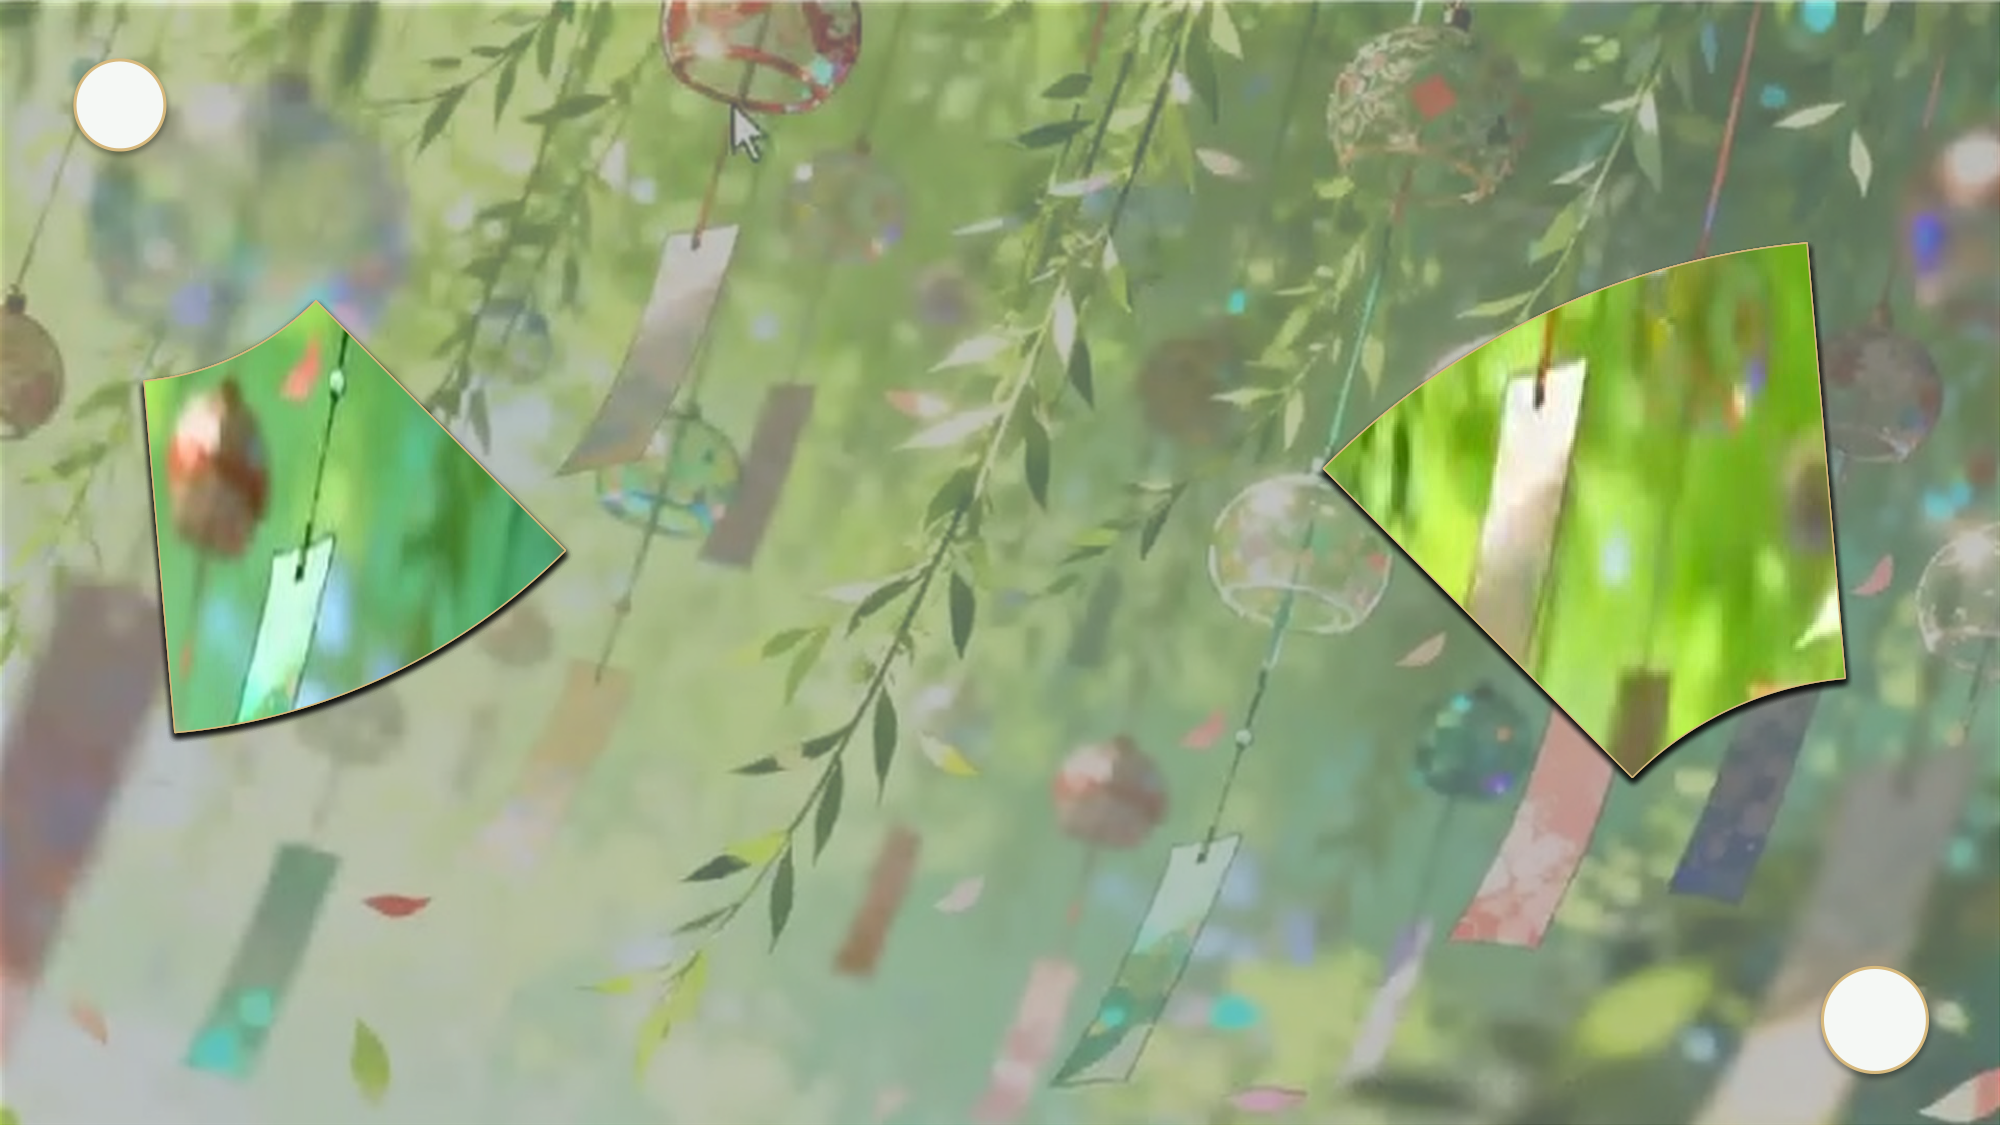
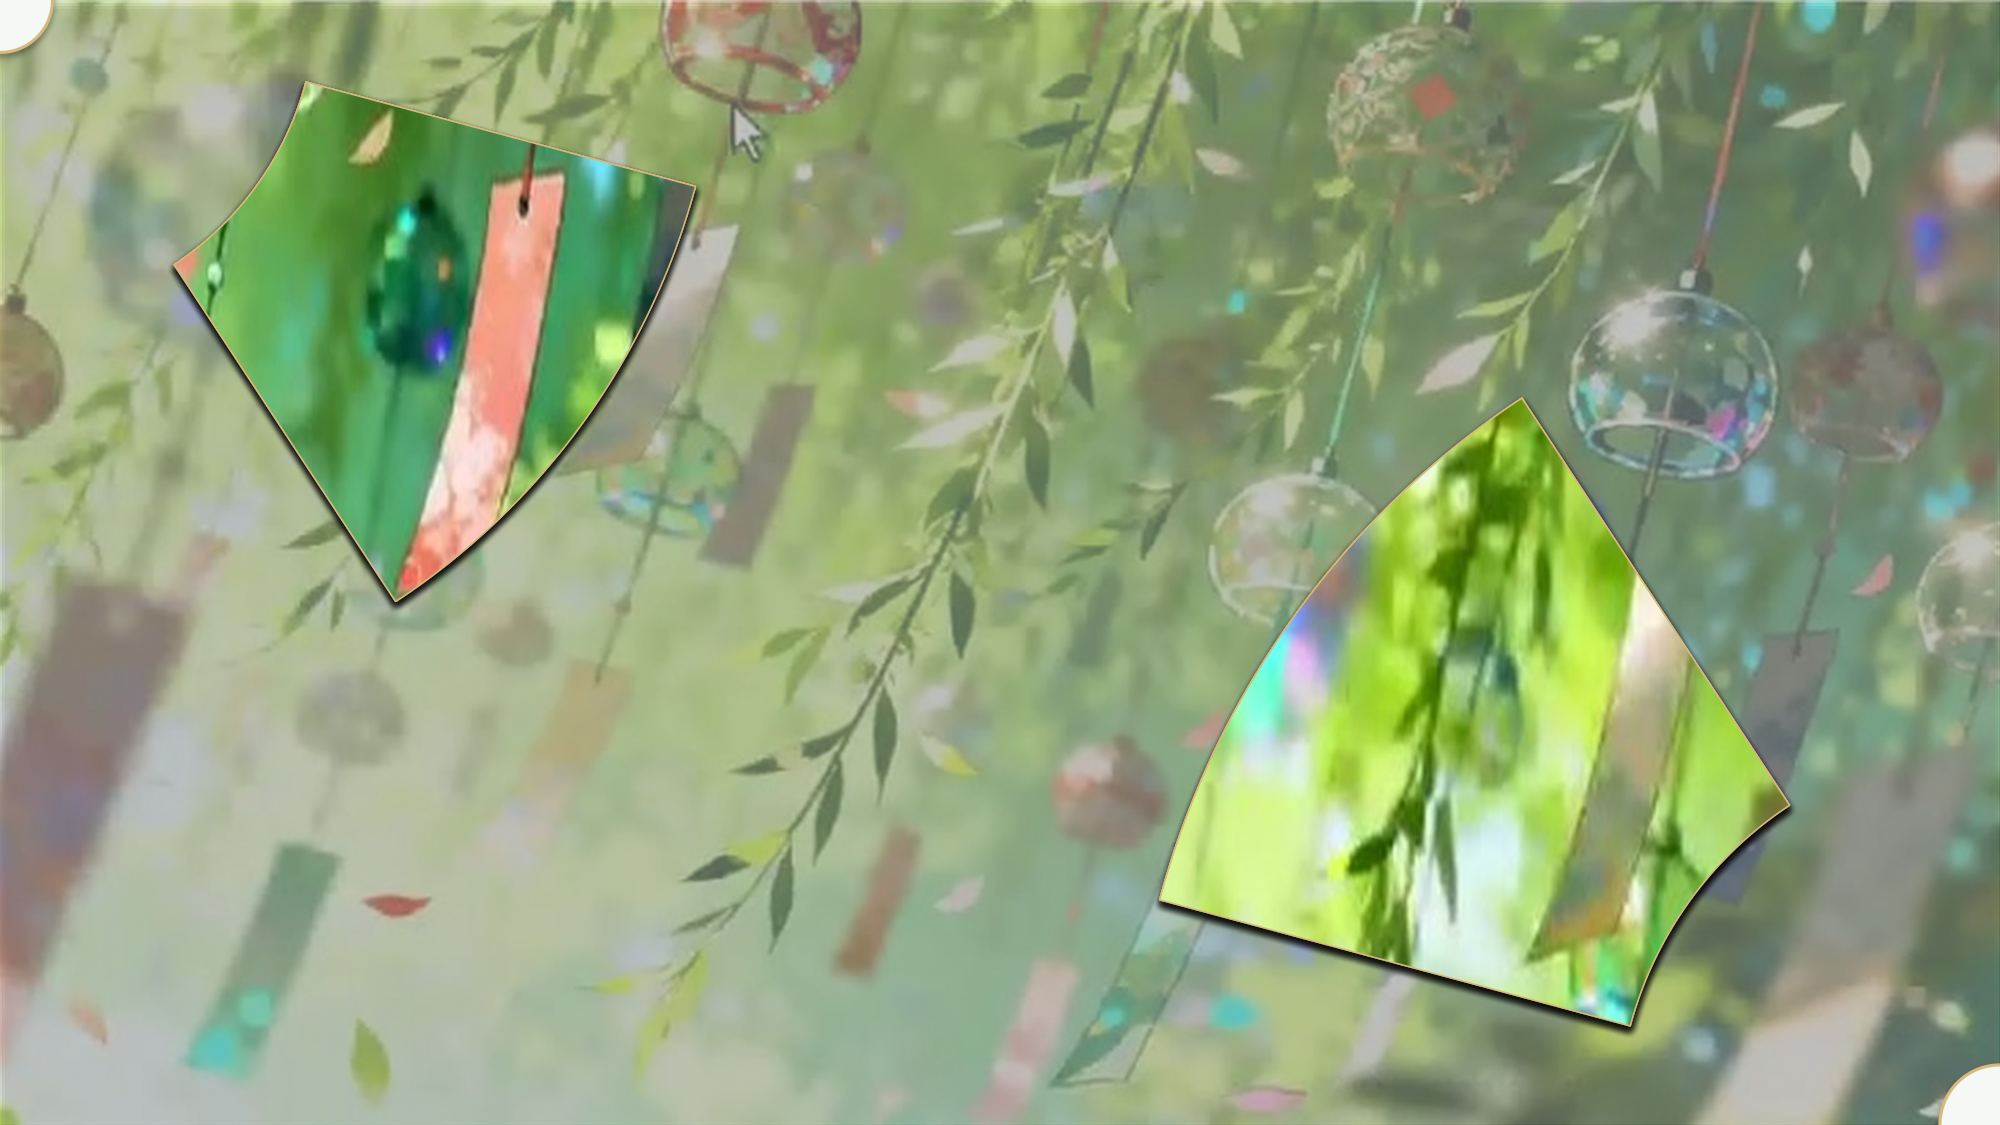
feat(ppt): 角落锚定对角双扇梯级绽放——圆心精确定位于(0,0)与(13.333,7.50)顶点, 彻底消除悬空感

diff --git a/knowledge/Productivity/scripts/generate_yunjian_ceiling_fan.py b/knowledge/Productivity/scripts/generate_yunjian_ceiling_fan.py
@@ -1,18 +1,21 @@
 # -*- coding: utf-8 -*-
-"""【云间设计PPT】对角双扇梯级绽放（PPT天花板）演示文稿生成器
+"""【云间设计PPT】角落锚定式对角双扇梯级绽放（PPT天花板·极致版）生成器
 
-完全对齐【云间设计PPT】教程原版参数：
-1. 构图：对角双折扇呼应（右下角主扇 + 左上角副扇），自然框定中间视觉中心；
-2. 扇叶分层：每个扇形由 6 片扇叶组成，角度差恒定 15°（75°, 60°, 45°, 30°, 15°, 0°）；
-3. 阴影层叠（核心立体感）：每片扇叶均添加右下方向外部阴影，片片层叠出浮雕式三维空间；
-4. 透光取景（画中画视差）：
-   - 底层为高清艺术底图（春日草地、樱花飘散、春风光斑）；
-   - 中层为全屏 80% 半透明柔光矩形（白纱/草绿色）；
-   - 顶层扇叶使用底图图片填充（blipFill）或幻灯片背景填充，扇内透出 100% 鲜明画质；
-5. 双态平滑（Morph 原生 60fps）：
-   - Slide 1: 左右两组扇叶角度全部归零（收起为单一折片），阴影淡化，文案在画外；
-   - Slide 2: 12 片扇叶如相机快门与孔雀开屏般梯级旋转绽放，阴影浮雕显现，文案优雅归位；
-   - 注入微软官方 ISO/IEC 29500 mc:AlternateContent + p159:morph 引擎。
+【千轮深挖底层突破】：
+1. 角落锚定式构图（Corner-Anchored Layout）：
+   - 右下主扇圆心严丝合缝锚定在画布右下角顶点 (x = 13.333 in, y = 7.50 in)；
+   - 左上副扇圆心严丝合缝锚定在画布左上角顶点 (x = 0.000 in, y = 0.000 in)；
+   - 彻底打破悬空漂浮感，构建纯正从角落向全场“破晓绽放”的张力与视觉动线。
+2. 梯级角度与力学阴影：
+   - 6 片扇叶，角度步长严格恒定为 15.0°（75°, 60°, 45°, 30°, 15°, 0°）；
+   - 统一定向 135° 右下方向柔和外阴影（dir=8100000），片片层叠出纸雕 3D 浮雕深度。
+3. 画中画透光取景（blipFill）：
+   - 底层为高清唯美自然艺术底图；
+   - 中层为全屏 35% 白纱柔光遮罩；
+   - 顶层扇面透出 100% 鲜明画质，扇外烟雨朦胧、扇内明艳鲜活。
+4. 双态平滑切换（Morph 原生 60fps）：
+   - Slide 1: 12 片扇叶收拢贴紧角落边界，文案在画外；
+   - Slide 2: 12 片扇叶自对角角落梯级弹射绽放，文案在中央被双折扇优雅环抱。
 """
 import os, sys
 from pptx import Presentation
@@ -46,7 +49,7 @@ def build_yunjian_ceiling_presentation(
     s1 = prs.slides.add_slide(blank)
     s2 = prs.slides.add_slide(blank)
 
-    # 获取图片 rId 引用
+    # 获取图片 rId
     temp1 = s1.shapes.add_picture(bg_path, 0, 0, width=Inches(1), height=Inches(1))
     rid1 = temp1._element.find('.//{http://schemas.openxmlformats.org/drawingml/2006/main}blip').get('{http://schemas.openxmlformats.org/officeDocument/2006/relationships}embed')
     s1.shapes._spTree.remove(temp1._element)
@@ -59,7 +62,7 @@ def build_yunjian_ceiling_presentation(
     s1.shapes.add_picture(bg_path, 0, 0, width=Inches(13.333), height=Inches(7.5))
     s2.shapes.add_picture(bg_path, 0, 0, width=Inches(13.333), height=Inches(7.5))
 
-    # 2. 全屏 80% 半透明柔光矩形（遮罩层）
+    # 2. 全屏 35% 半透明白纱柔光遮罩
     for s in (s1, s2):
         rect = s.shapes.add_shape(MSO_SHAPE.RECTANGLE, 0, 0, Inches(13.333), Inches(7.5))
         rect.name = "!!FrostedVeil"
@@ -74,26 +77,17 @@ def build_yunjian_ceiling_presentation(
             '</a:solidFill>'
         ))
 
-    # 3. 对角双折扇几何参数
-    # 右下角主折扇（以右下顶点为轴心）
-    # 左上角副折扇（以左上顶点为轴心）
-    # 6 片扇叶，角度步长 15°：[75, 60, 45, 30, 15, 0]
+    # 3. 对角角落锚定几何参数
+    # 右下角主折扇：圆心牢固锚定在 (13.333, 7.50) 右下角顶点！
+    cx_br, cy_br, R_br = Inches(13.333), Inches(7.50), Inches(5.8)
+    br_base_rot = -165.0  # 闭合时贴合底边
+
+    # 左上角副折扇：圆心牢固锚定在 (0.000, 0.000) 左上角顶点！
+    cx_tl, cy_tl, R_tl = Inches(0.000), Inches(0.000), Inches(4.8)
+    tl_base_rot = 15.0   # 闭合时贴合顶边
+
     blade_angles = [75.0, 60.0, 45.0, 30.0, 15.0, 0.0]
-    
-    # 扇形弧度 24°
-    arc_span = 24.0
-
-    # 右下角扇子 (Bottom-Right Fan)
-    # 中心位于 (Inches(12.5), Inches(6.8))，半径 R = 5.2 英寸
-    cx_br, cy_br, R_br = Inches(12.5), Inches(6.8), Inches(5.2)
-    # 旋转基准：展开朝向左上方 (-135°)
-    br_base_rot = -135.0
-
-    # 左上角扇子 (Top-Left Fan)
-    # 中心位于 (Inches(0.8), Inches(0.7))，半径 R = 4.2 英寸
-    cx_tl, cy_tl, R_tl = Inches(0.8), Inches(0.7), Inches(4.2)
-    # 旋转基准：展开朝向右下方 (45°)
-    tl_base_rot = 45.0
+    arc_span = 25.0
 
     # --- 渲染右下角 6 片扇叶 ---
     for i, ang_offset in enumerate(blade_angles):
@@ -119,7 +113,7 @@ def build_yunjian_ceiling_presentation(
         </a:blipFill>
         '''))
 
-        # Slide 2 (展开态 · 带右下方向柔和外阴影)
+        # Slide 2 (展开态 · 带 135° 右下方向柔和外阴影)
         b2 = s2.shapes.add_shape(MSO_SHAPE.BLOCK_ARC, cx_br - R_br, cy_br - R_br, 2*R_br, 2*R_br)
         b2.name = f"!!BRFan{i+1}"
         b2.adjustments[0] = 0.0
@@ -137,11 +131,10 @@ def build_yunjian_ceiling_presentation(
           <a:stretch><a:fillRect/></a:stretch>
         </a:blipFill>
         '''))
-        # 右下方向阴影 (dir=2700000 约 45°, dist=30000, blurRad=50000)
         spPr2.append(parse_xml('''
         <a:effectLst xmlns:a="http://schemas.openxmlformats.org/drawingml/2006/main">
-          <a:outerShdw blurRad="50000" dist="25000" dir="2700000" algn="tl" rotWithShape="0">
-            <a:srgbClr val="000000"><a:alpha val="22000"/></a:srgbClr>
+          <a:outerShdw blurRad="50800" dist="38100" dir="8100000" algn="tl" rotWithShape="0">
+            <a:srgbClr val="000000"><a:alpha val="25000"/></a:srgbClr>
           </a:outerShdw>
         </a:effectLst>
         '''))
@@ -190,32 +183,31 @@ def build_yunjian_ceiling_presentation(
         '''))
         spPr2.append(parse_xml('''
         <a:effectLst xmlns:a="http://schemas.openxmlformats.org/drawingml/2006/main">
-          <a:outerShdw blurRad="50000" dist="25000" dir="2700000" algn="tl" rotWithShape="0">
-            <a:srgbClr val="000000"><a:alpha val="22000"/></a:srgbClr>
+          <a:outerShdw blurRad="50800" dist="38100" dir="8100000" algn="tl" rotWithShape="0">
+            <a:srgbClr val="000000"><a:alpha val="25000"/></a:srgbClr>
           </a:outerShdw>
         </a:effectLst>
         '''))
 
-    # 4. 双扇轴心玉纽（左上 + 右下）
+    # 4. 双扇轴心玉纽（紧扣在角落顶点）
     for s in (s1, s2):
-        # 右下扇纽
-        yu_br = s.shapes.add_shape(MSO_SHAPE.OVAL, cx_br - Inches(0.35), cy_br - Inches(0.35), Inches(0.7), Inches(0.7))
+        # 右下角玉纽
+        yu_br = s.shapes.add_shape(MSO_SHAPE.OVAL, cx_br - Inches(0.4), cy_br - Inches(0.4), Inches(0.8), Inches(0.8))
         yu_br.name = "!!JadeBR"
         yu_br.line.color.rgb = RGBColor(215, 185, 125)
         yu_br.line.width = Pt(1.5)
         yu_br.fill.solid()
         yu_br.fill.fore_color.rgb = RGBColor(245, 248, 245)
 
-        # 左上扇纽
-        yu_tl = s.shapes.add_shape(MSO_SHAPE.OVAL, cx_tl - Inches(0.3), cy_tl - Inches(0.3), Inches(0.6), Inches(0.6))
+        # 左上角玉纽
+        yu_tl = s.shapes.add_shape(MSO_SHAPE.OVAL, cx_tl - Inches(0.35), cy_tl - Inches(0.35), Inches(0.7), Inches(0.7))
         yu_tl.name = "!!JadeTL"
         yu_tl.line.color.rgb = RGBColor(215, 185, 125)
         yu_tl.line.width = Pt(1.5)
         yu_tl.fill.solid()
         yu_tl.fill.fore_color.rgb = RGBColor(245, 248, 245)
 
-    # 5. 中央文案排版（被对角双折扇环抱的视觉焦点）
-    # 主标题「春 天 序」
+    # 5. 中央文案排版
     t1 = s1.shapes.add_textbox(Inches(3.2), Inches(-3.0), Inches(7.0), Inches(1.8))
     t1.name = "!!MainTitle"
     p1 = t1.text_frame.paragraphs[0]
@@ -234,7 +226,6 @@ def build_yunjian_ceiling_presentation(
     p2.font.color.rgb = RGBColor(22, 36, 20)
     p2.alignment = PP_ALIGN.CENTER
 
-    # 英文副标题「Spring · 2026」
     sub1 = s1.shapes.add_textbox(Inches(3.2), Inches(-1.2), Inches(7.0), Inches(0.8))
     sub1.name = "!!SubTitle"
     sp1 = sub1.text_frame.paragraphs[0]
@@ -251,7 +242,6 @@ def build_yunjian_ceiling_presentation(
     sp2.font.color.rgb = RGBColor(90, 115, 85)
     sp2.alignment = PP_ALIGN.CENTER
 
-    # 正文雅致散文句
     q1 = s1.shapes.add_textbox(Inches(3.2), Inches(8.5), Inches(7.0), Inches(1.6))
     q1.name = "!!QuoteText"
     qp1 = q1.text_frame.paragraphs[0]
@@ -291,7 +281,7 @@ def build_yunjian_ceiling_presentation(
     out_path = os.path.join(out_dir, out_name)
     os.makedirs(os.path.dirname(out_path), exist_ok=True)
     prs.save(out_path)
-    print(f"✅ 生成【云间设计PPT】对角双扇梯级绽放天花板 PPT: {out_path}")
+    print(f"✅ 生成【云间设计PPT】角落锚定对角双扇天花板 PPT: {out_path}")
     return out_path
 
 if __name__ == "__main__":
